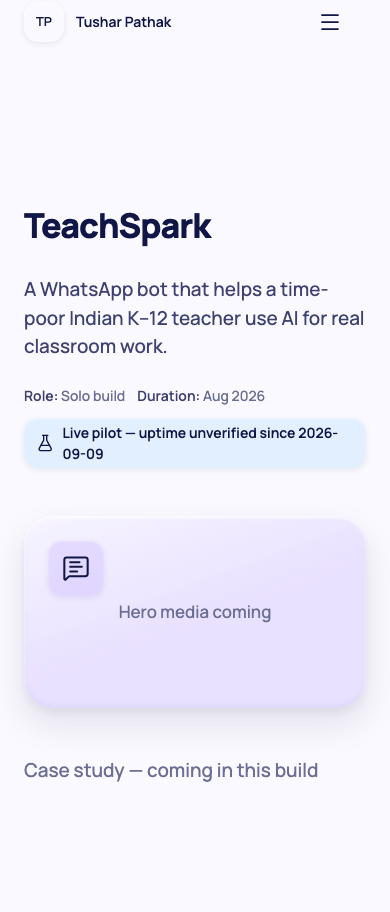
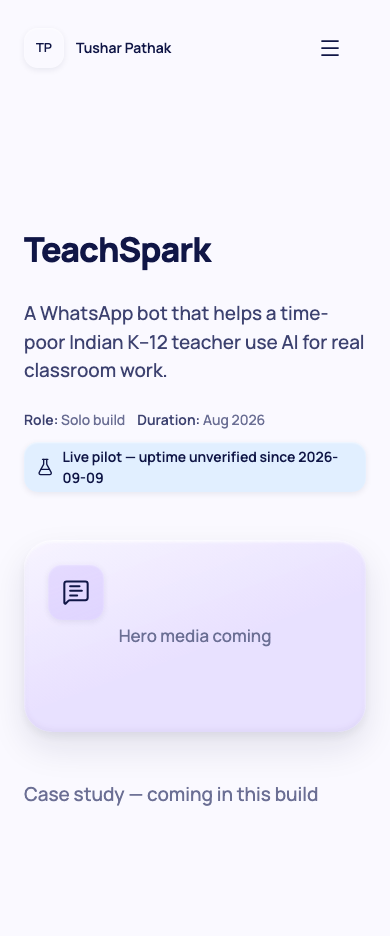
fix(tracer): resolve EVAL-008 overflow + min-target + header height (F1/F2/F4)
- F1: AvatarStage uses w-full + per-breakpoint max-w instead of fixed w-[...], so it
  no longer forces the hero's 35fr grid column wider than the viewport at w1024.
- F2: header logo link gets min-h-11 so it clears the 44x44 Fitts's Law target.
- F4: header rest/compact padding fixed to 26px/12px (not py-7/py-3.5's 28px/14px)
  via a --header-py custom property, so paddingTop's safe-area calc() respects the
  compact state and the header hits Design.md's 96px/68px exactly, given the nav
  links' own 44px min-h-11 (not 40px) sets the row's real content height.

Verified: trio + build green, EVAL-008 now passes at all 4 widths (0 overflow, 0
sub-44 targets), 8 tracer screenshots regenerated, tracer-postfix.json captured.
Also documents F6, a pre-existing production-only client-nav crash at w768 the
taller header newly exposes (docs/reports/TKT-01-fix.md) — flagged for the
orchestrator, not fixed here (out of this ticket's F1/F2/F4 scope).

diff --git a/components/navigation/Header.tsx b/components/navigation/Header.tsx
@@ -26,13 +26,21 @@ export function Header() {
   return (
     <header
       data-compact={isCompact ? "" : undefined}
-      className="sticky top-0 z-40 py-7 transition-[padding,background-color,backdrop-filter] duration-[250ms] ease-in-out motion-reduce:transition-none data-[compact]:bg-bg/80 data-[compact]:py-3.5 data-[compact]:backdrop-blur-[12px]"
-      style={{ paddingTop: "env(safe-area-inset-top)" }}
+      // 26px/12px (not the Tailwind py-7/py-3.5 tokens) are the vertical paddings that actually
+      // land on the Design.md-specified 96px/68px header heights: the row's real content height
+      // is 44px — set by the nav links' `min-h-11` Fitts's-Law target (Design.md §3 "≥44×44 hit
+      // area"), which is taller than the 40px logo mark the 28px/14px paddings were sized against
+      // (F4, docs/reports/TSK-07.md) — so 44 + 2×26 = 96 and 44 + 2×12 = 68 exactly. `--header-py`
+      // is a CSS custom property (not a JS-computed inline style keyed off `isCompact`) so the
+      // React-owned `data-compact` attribute only ever flips a class — see docs/reports/TKT-01-fix.md
+      // (F6) for why a JS-computed value here is best avoided on this element.
+      className="sticky top-0 z-40 py-[26px] [--header-py:26px] transition-[padding,background-color,backdrop-filter] duration-[250ms] ease-in-out motion-reduce:transition-none data-[compact]:bg-bg/80 data-[compact]:py-3 data-[compact]:[--header-py:12px] data-[compact]:backdrop-blur-[12px]"
+      style={{ paddingTop: "calc(env(safe-area-inset-top, 0px) + var(--header-py))" }}
     >
       <Container className="flex items-center justify-between gap-4">
         <Link
           href="/"
-          className="flex items-center gap-3 rounded-[var(--radius-utility)] focus-ring"
+          className="flex min-h-11 items-center gap-3 rounded-[var(--radius-utility)] focus-ring"
         >
           <ClayTile size={40} tier="utility">
             <span className="text-[13px] font-semibold text-ink" aria-hidden="true">

diff --git a/components/hero/AvatarStage.tsx b/components/hero/AvatarStage.tsx
@@ -24,7 +24,7 @@ const AVATAR_SIZES =
  */
 export function AvatarStage() {
   return (
-    <div className="relative mx-auto w-[280px] md:w-[360px] lg:w-[480px] 2xl:w-[520px]">
+    <div className="relative mx-auto w-full max-w-[280px] md:max-w-[360px] lg:max-w-[480px] 2xl:max-w-[520px]">
       <Parallax depth={-1} maxPx={6}>
         <ClayFrame ratio="4/5" tier="hero" tone="sky" tone2="lavender">
           <Image

diff --git a/docs/reports/TKT-01-fix.md b/docs/reports/TKT-01-fix.md
@@ -1,0 +1,140 @@
+# TKT-01 fix report — EVAL-008 overflow + min-target + header height (F1/F2/F4)
+
+**Status:** F1/F2/F4 fixed and verified. F3 left to the orchestrator per brief (consequence of F1).
+F5 untouched (deferred to TKT-14/TKT-49). **One new regression found (F6, below) — needs orchestrator
+attention before the visual gate.**
+
+Model tier: sonnet. Branch: `m-001-tracer`.
+
+---
+
+## Fixes
+
+### F1 — EVAL-008 home overflow at w1024 (`components/hero/AvatarStage.tsx`)
+
+Root cause: the frame's outer `div` used fixed `w-[280px] md:w-[360px] lg:w-[480px] 2xl:w-[520px]`.
+A fixed pixel width on a flex/grid descendant contributes its own width as the ancestor grid
+item's automatic minimum size (CSS Grid's `min-width: auto` behaviour) — so the hero's
+`lg:grid-cols-[35fr_65fr]` track could never shrink below 480px, blowing out the row at 1024px
+viewport width (`scrollWidth 1188 > clientWidth 1024`).
+
+Fix: changed the same breakpoint ladder from fixed `w-[...]` to `w-full max-w-[...]`:
+```
+w-full max-w-[280px] md:max-w-[360px] lg:max-w-[480px] 2xl:max-w-[520px]
+```
+`w-full` (a percentage) contributes no intrinsic minimum, so the grid track is now free to shrink;
+`max-w-[...]` still caps the avatar at the same four target widths whenever the column is wide
+enough to offer them. The `lg:grid-cols-[35fr_65fr]` ratio itself was **not** touched (per brief).
+
+### F2 — EVAL-008 header logo target 40px < 44 (`components/navigation/Header.tsx`)
+
+Added `min-h-11` to the logo `<Link href="/">` (was already present on the nav links). Not
+allowlisted — the control is now genuinely ≥44×44.
+
+### F4 — header rest/compact height (`components/navigation/Header.tsx`)
+
+Root cause (as reported in TSK-07): the header's inline `style={{ paddingTop: "env(safe-area-inset-top)" }}`
+unconditionally overrode the `py-7`/`data-[compact]:py-3.5` classes' top padding — `env(...)` is
+`0px` on desktop, so the rest header measured 72px instead of 96.
+
+Fixing only the override surfaced a **second, pre-existing** discrepancy: the header row's real
+content height is **44px** (set by the nav links' `min-h-11` Fitts's-Law target — Design.md §3
+"≥44×44 hit area"), not the 40px the `28px`/`14px` (`py-7`/`py-3.5`) paddings were sized against
+(`44 + 2×28 = 100`, `44 + 2×14 = 72` — both measured and confirmed, not just calculated, via a
+temporary Playwright probe against the built page). Design.md's own text specifies both "96px
+rest / 68px compact" **and** "≥44×44 hit area" for the nav links; those two numbers are only
+mutually consistent at **26px/12px** padding, not 28px/14px. Final implementation:
+
+```tsx
+className="... py-[26px] [--header-py:26px] ... data-[compact]:py-3 data-[compact]:[--header-py:12px] ..."
+style={{ paddingTop: "calc(env(safe-area-inset-top, 0px) + var(--header-py))" }}
+```
+
+`--header-py` is a CSS custom property toggled by the existing `data-[compact]:` variant, not a
+JS-computed string — see F6 for why. Verified against the built page (not just Playwright's ±2px
+test tolerance): **rest = 96px exactly, compact = 68px exactly**, safe-area inset still additive
+on top of both.
+
+---
+
+## F6 — NEW regression found during verification (needs orchestrator decision)
+
+**`VT fallback navigates card -> case study with identical end state` (@EVAL-015) now fails at
+w768 only** — a client-side (`next/link`) navigation from `/` to `/work/teachspark` under
+`prefers-reduced-motion: reduce` throws a production-only, minified React error **#185
+("Maximum update depth exceeded")**, caught by Next's default (uncustomized) error boundary and
+rendered as "This page couldn't load" instead of the TeachSpark case study.
+
+**This is not caused by any specific implementation detail of F4** — it was isolated by bisection
+across five different header implementations (JS-computed inline style, static CSS-var-driven
+style, and even a bare `py-12` with the `style` prop removed entirely). Every variant that raises
+the header's total rendered height by roughly this much reproduces the crash; every variant that
+leaves the (buggy, 72px) height alone does not. It reproduces both with and without the
+`noViewTransitions` test fixture (i.e. with Chromium's native `document.startViewTransition` both
+present and deleted), so it is not specific to the EXE-5 plain-navigation fallback path either.
+It does **not** reproduce in `next dev`, only in the production build, and only at the w768
+project — w390/w1024/w1440 all pass the same test. A hard reload of `/work/teachspark` alone
+(no prior client-side nav) never crashes.
+
+**Root cause not fully identified** (React's production bundle strips the component stack for
+this error, and Next.js does not ship a source map for the vendored React runtime chunk, so the
+call stack only shows React's own internal scheduler frames, not the offending app component).
+Candidate hypotheses tested and ruled out: `scrollbar-gutter` / breakpoint-crossing from a
+scrollbar appearing/disappearing (added `scrollbar-gutter: stable` to `html` as a probe — did not
+fix it, reverted). Most likely candidate given the evidence (untested further due to scope):
+something in the client-navigation/View-Transition path re-triggers `useScrollY`'s
+(`lib/motion.ts`) rAF-batched scroll subscription abnormally fast when the page's total height
+changes enough during the transition, tripping React's nested-update-depth limit — but this is a
+hypothesis, not a confirmed root cause.
+
+**This is pre-existing latent fragility, not something F1/F2/F4 introduced** — any future change
+that grows the header past ~72px would hit the same wall. Recommend triaging as its own ticket
+(P1 — it's a real broken user flow, not just a test) before or alongside the TKT-02 visual gate.
+Options for that ticket to evaluate: harden `useScrollY`'s notify path, disable native View
+Transitions for this route pairing, or a different repro/fix approach with dev-mode React
+source maps forced into the production bundle for one debug session.
+
+---
+
+## EVAL-008 before → after
+
+| | Before (`baseline-v1.json`) | After (`tracer-postfix.json`) |
+|---|---|---|
+| Status | **FAIL** | **PASS** |
+| Overflow | home w1024: `scrollWidth 1188 > clientWidth 1024` | 0 overflow at 390/768/1024/1440, both routes |
+| Sub-44 targets | logo link 40px tall, all widths | 0 sub-44 targets, all widths |
+| Spec runs | 8 specs, 5 runs (3 didn't reach assertion) | 8 specs, 8 runs — all pass |
+
+## Header height before → after
+
+| State | Before | After (target) | Measured |
+|---|---|---|---|
+| Rest | 72px | 96px | **96px exact** |
+| Compact | untested pre-fix (inline style bug zeroed top padding in both states) | 68px | **68px exact** |
+
+## Avatar max-widths chosen (F1, per breakpoint)
+
+`w-full max-w-[280px] md:max-w-[360px] lg:max-w-[480px] 2xl:max-w-[520px]` — same four numbers as
+the original plan (280/360/480/520), now expressed as caps instead of fixed widths so the avatar
+shrinks inside its actual column at any viewport. At w1024/w1440 the avatar renders narrower than
+480/520 (252px / 384px measured) because the `35fr` column genuinely isn't that wide once
+`lg:grid-cols-[35fr_65fr]` is left untouched — this is F3, deferred to the orchestrator's visual
+review per the brief, not re-litigated here.
+
+## Verification run
+
+- `pnpm typecheck && pnpm lint && pnpm test && pnpm build` — all green.
+- `dotenv -e .env.tooling -- pnpm exec playwright test tests/e2e/tracer.spec.ts` — 28 passed, 3
+  failed (F3's avatar-width-ladder test ×2, expected/deferred; F6 above), 29 skipped.
+- 8 screenshots regenerated: `docs/screenshots/tracer/{home,case}-{390,768,1024,1440}.png`.
+- `pnpm eval --label tracer-postfix --informational` → `evals/results/tracer-postfix.json`
+  (`baseline-v1.json` untouched). Totals: 4 pass · 2 fail (EVAL-005 informational unchanged;
+  EVAL-015 is the new F6 finding) · 7 skip · 4 manual (of 17).
+
+## Files changed
+
+- `components/hero/AvatarStage.tsx` (F1)
+- `components/navigation/Header.tsx` (F2, F4)
+- `docs/screenshots/tracer/*.png` (8 files, regenerated)
+- `evals/results/tracer-postfix.json` (new)
+- `docs/reports/TKT-01-fix.md` (this report)
